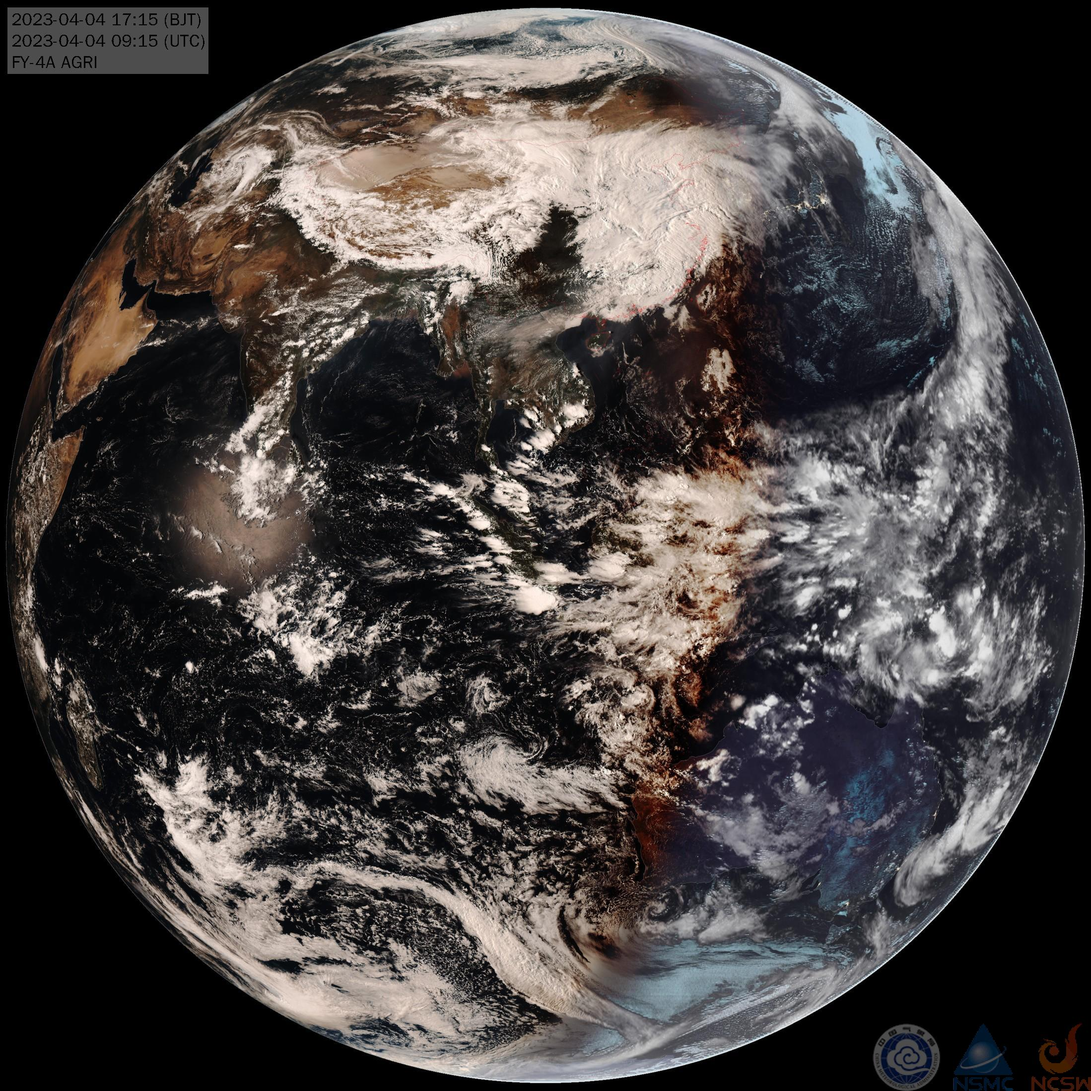
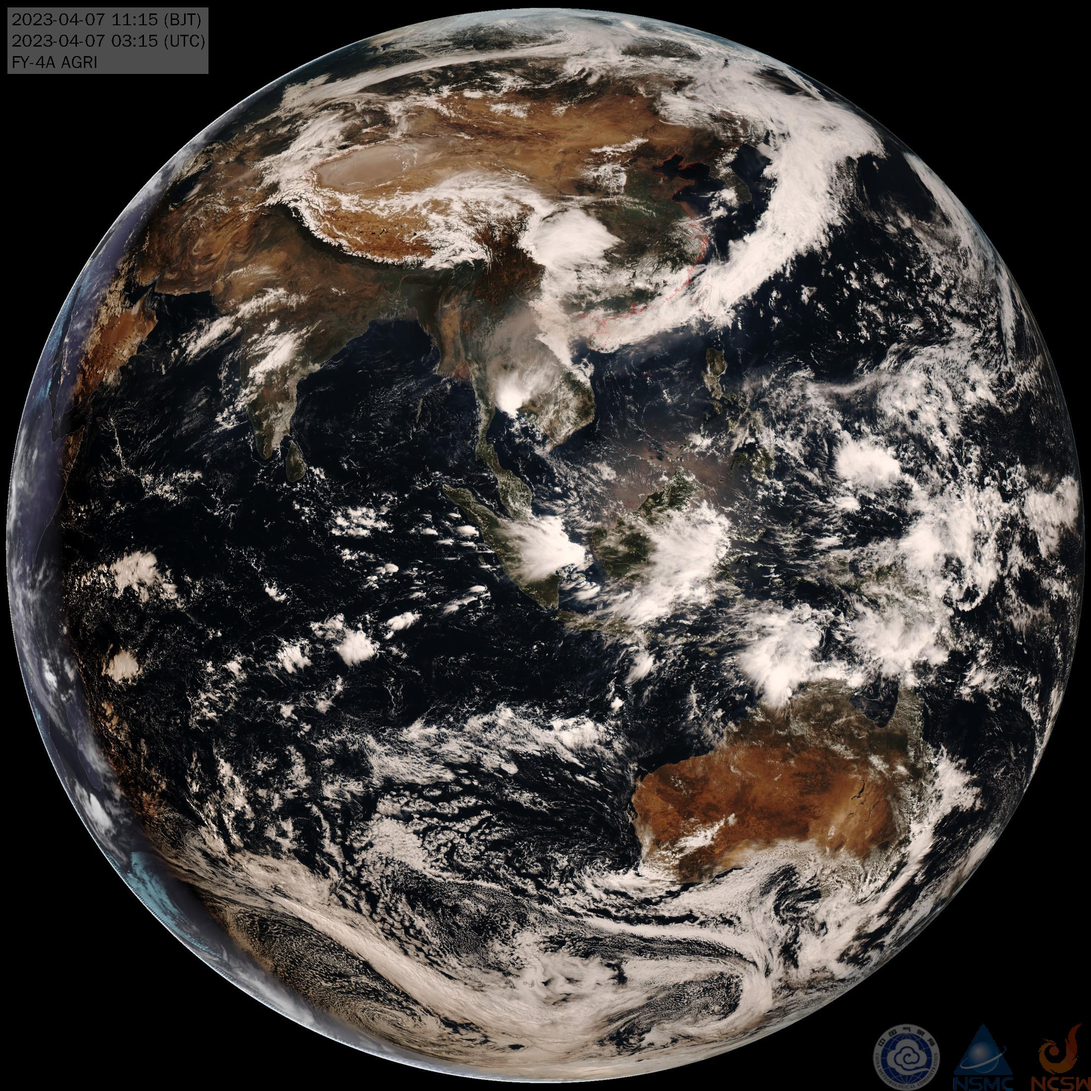
改变了桌面适应方式

diff --git a/main.py b/main.py
@@ -40,8 +40,8 @@ response = requests.get(url)
 with open(file_path, "wb") as file:
     file.write(response.content)
     img = cv2.imread(file_path)
-    cropped = img[0:1080, 150:2070]  # 裁剪坐标为[y0:y1, x0:x1]
-    cv2.imwrite("./SatImage/wallpaper.jpg", cropped)
+    # cropped = img[0:1080, 150:2070]  # 裁剪坐标为[y0:y1, x0:x1]
+    # cv2.imwrite("./SatImage/wallpaper.jpg", cropped)
 
 # 设置为Windows 10桌面壁纸
     '''
@@ -59,13 +59,13 @@ def set_wallpaper(img_path):
     # 最后的参数:2拉伸,0居中,6适应,10填充,0平铺
     win32api.RegSetValueEx(reg_key, "WallpaperStyle", 0, win32con.REG_SZ, "0")
     # 最后的参数:1表示平铺,拉伸居中等都是0
-    win32api.RegSetValueEx(reg_key, "TileWallpaper", 0, win32con.REG_SZ, "0")
+    win32api.RegSetValueEx(reg_key, "TileWallpaper", 0, win32con.REG_SZ, "1")
     # 刷新桌面与设置壁纸
     win32gui.SystemParametersInfo(win32con.SPI_SETDESKWALLPAPER, img_path, win32con.SPIF_SENDWININICHANGE)
 
 
 # 注意路径书写问题
-img_path = os.path.abspath("./SatImage/wallpaper.jpg")
+img_path = os.path.abspath("./SatImage/FY4A_DISK.JPG")
 
 # 切换时要检查一下图片是否存在
 if os.path.exists(img_path):
